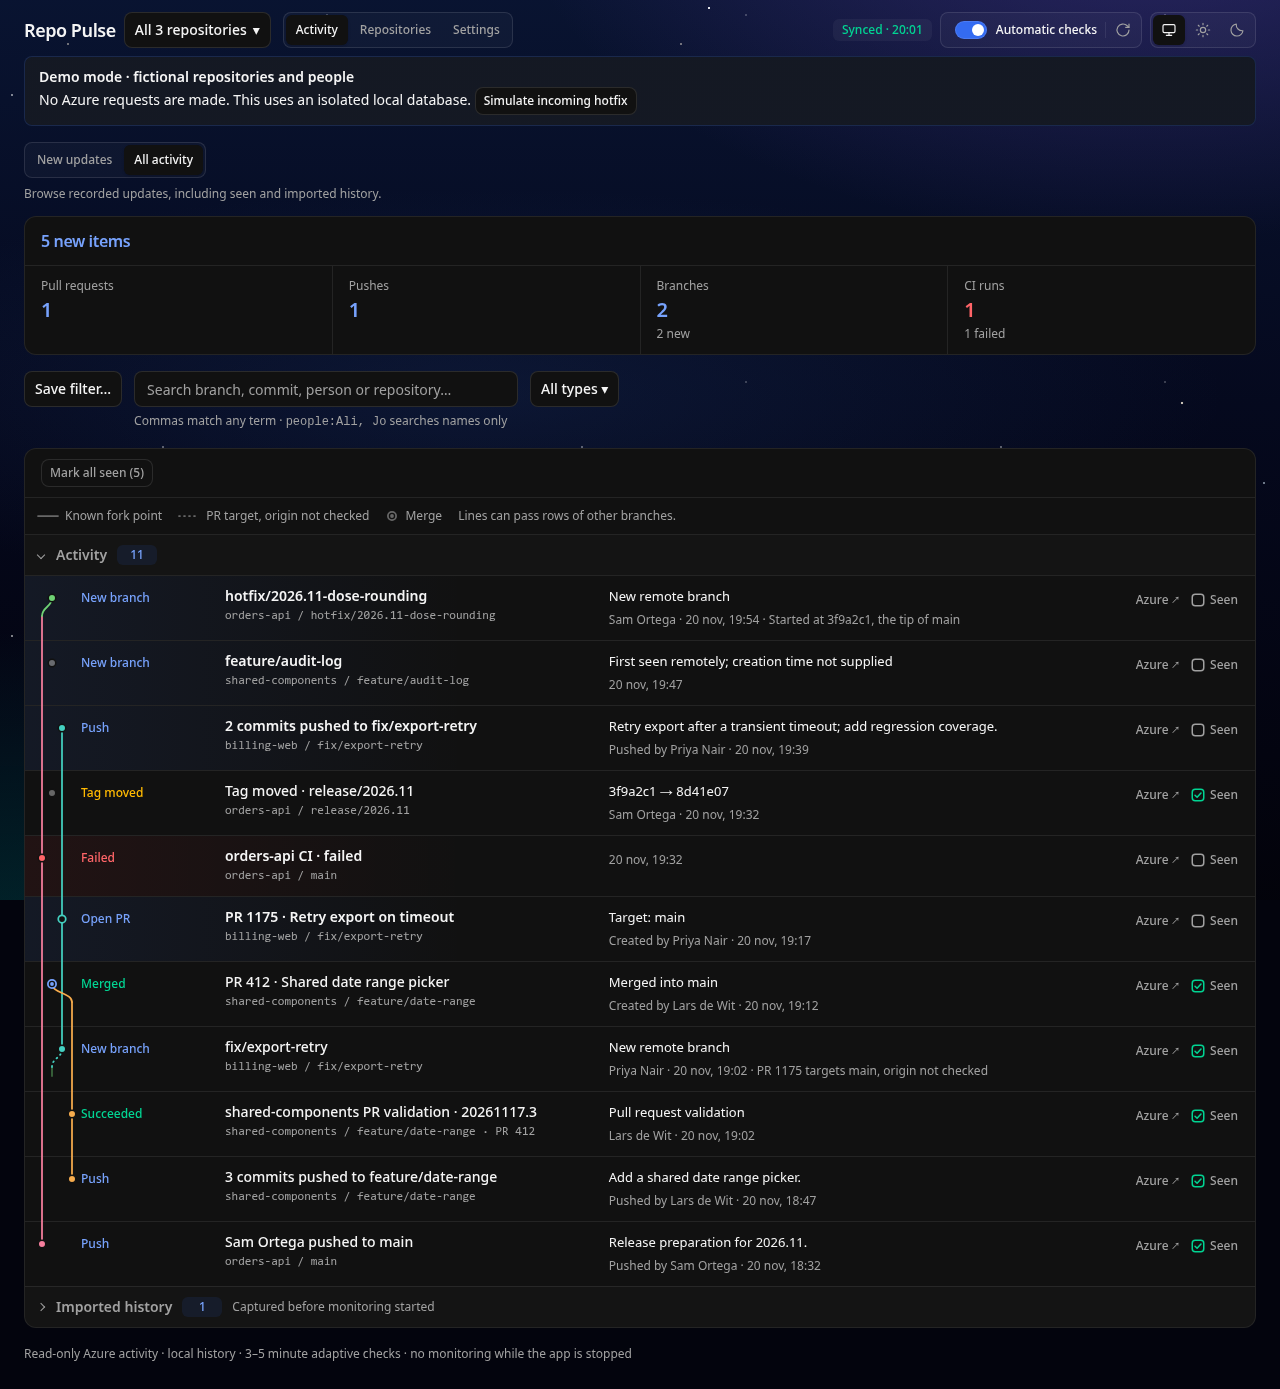
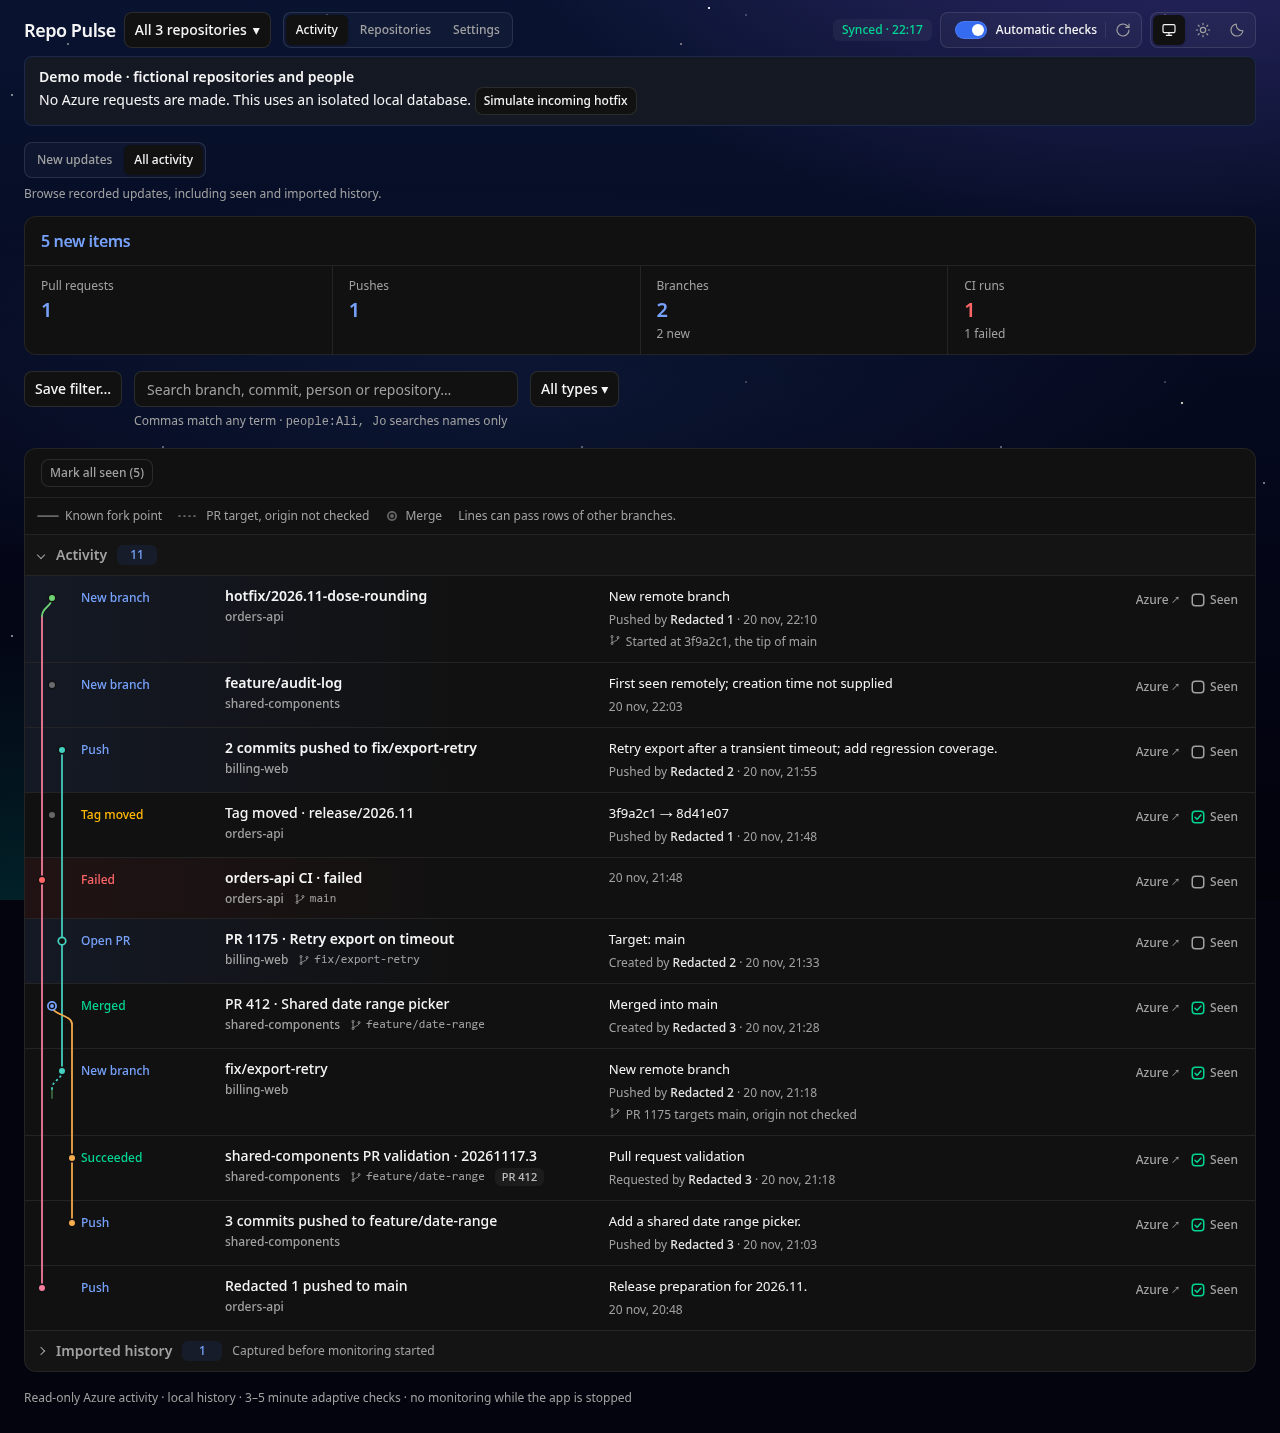
Refresh the README screenshots and describe the row's ref line
The screenshots show the tokenised ref line, the tiered event column and
the redacted demo names. The README says when a row names its repository
and branch.

diff --git a/README.md b/README.md
@@ -37,7 +37,7 @@ Then start Repo Pulse and use **Settings → Check connection**. Your checkouts 
 
 ## Use Repo Pulse
 
-- **Activity.** Open **New updates** to catch up or **All activity** to browse cached history. Enter `Ali, Jose` in **Search activity** to match either term, including names such as Alice and José. Use `people:Ali Mor, Jose` to search recorded names with partial words in order. Opening an item never marks it seen. On wider screens, **All activity** draws a branch tree beside each row's type label: one lane per branch, a solid fork when the commit the branch started at was the tip of, or already on, one other branch, a dotted fork to its pull request target when the origin was not checked, and a curve where a completed pull request merges. A pull request validation run shows the branch of its pull request and joins that branch's lane.
+- **Activity.** Open **New updates** to catch up or **All activity** to browse cached history. Enter `Ali, Jose` in **Search activity** to match either term, including names such as Alice and José. Use `people:Ali Mor, Jose` to search recorded names with partial words in order. Opening an item never marks it seen. On wider screens, **All activity** draws a branch tree beside each row's type label: one lane per branch, a solid fork when the commit the branch started at was the tip of, or already on, one other branch, a dotted fork to its pull request target when the origin was not checked, and a curve where a completed pull request merges. A pull request validation run shows the branch of its pull request and joins that branch's lane. The line under a row's title names the repository only when more than one is shown, and the branch only when the title does not already name it.
 - **Catch up.** The Activity summary counts every unread update in scope, on every page. Tick **Seen** on a row (tick it again to mark the row unread). **Mark all seen (N)**, or **Mark all matching seen (N)** with filters applied, clears every unread update the page was read with, across all pages; updates recorded after the page loaded stay unread. It asks first when some of those updates are below the rows shown. **Undo** restores the updates changed by your action.
 - **Saved filters.** Choose **Save filter…** to save your search, activity type, repository scope, and Activity tab. Choosing a saved filter applies it immediately. Edits show **Modified** and stay in your current view until you choose **Update**. Use **More** to save a variation, restore the saved version, or manage the filter.
 - **Switch branches.** In **Repositories**, choose **Switch branch…** beside the current branch and pick one of the repository's watched branches. On an Activity detail that names one branch, choose **Switch to …**: a new branch, a push, a build, the source of an active pull request from the same repository, or a completed pull request's target (such as `main`). Repo Pulse verifies the remote and refreshes the local tracking ref before switching. It asks for confirmation if the upstream history was rewritten or the local branch has diverged. Git carries compatible local edits and stops if switching would overwrite them. After the switch, **Repositories** shows the checkout and its update controls.

diff --git a/docs/FEED-ROW-POLISH-PLAN.md b/docs/FEED-ROW-POLISH-PLAN.md
@@ -104,9 +104,9 @@ person-like names.
 
 ## Phase 6: screenshots
 
-- [ ] Regenerate `docs/screenshots/activity-dark.png` and
+- [x] Regenerate `docs/screenshots/activity-dark.png` and
       `activity-light.png` from `npm run demo`.
-- [ ] Update README.md wherever it describes the row layout or the
+- [x] Update README.md wherever it describes the row layout or the
       repository / branch line.
 
 ## Out of scope
